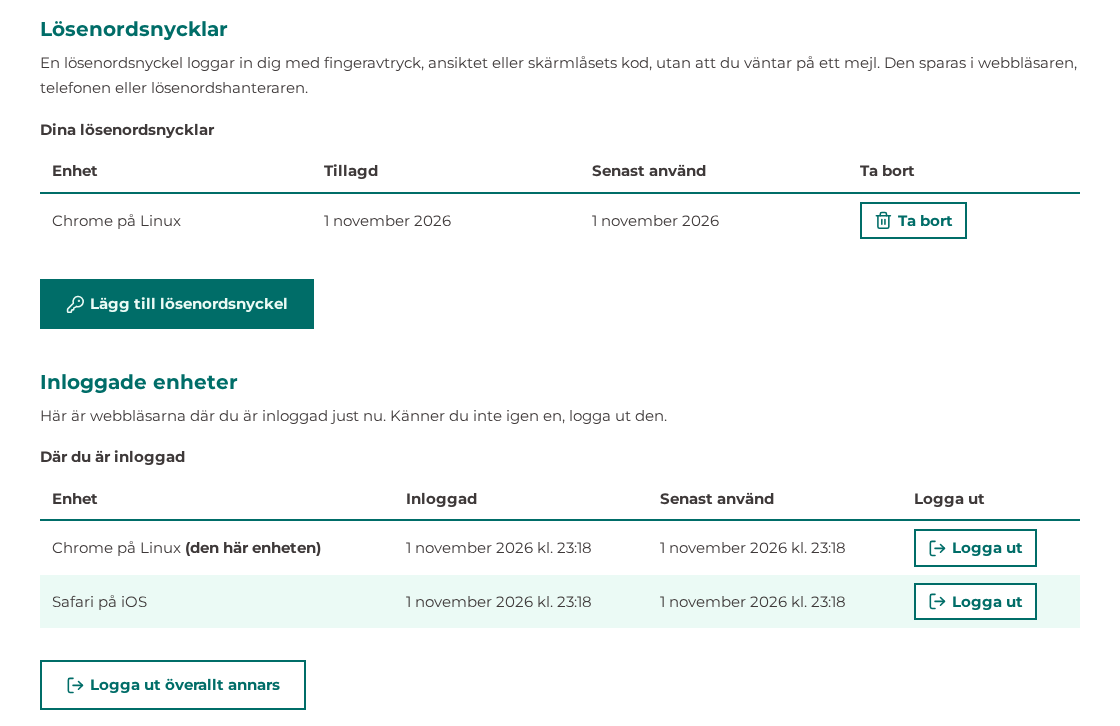
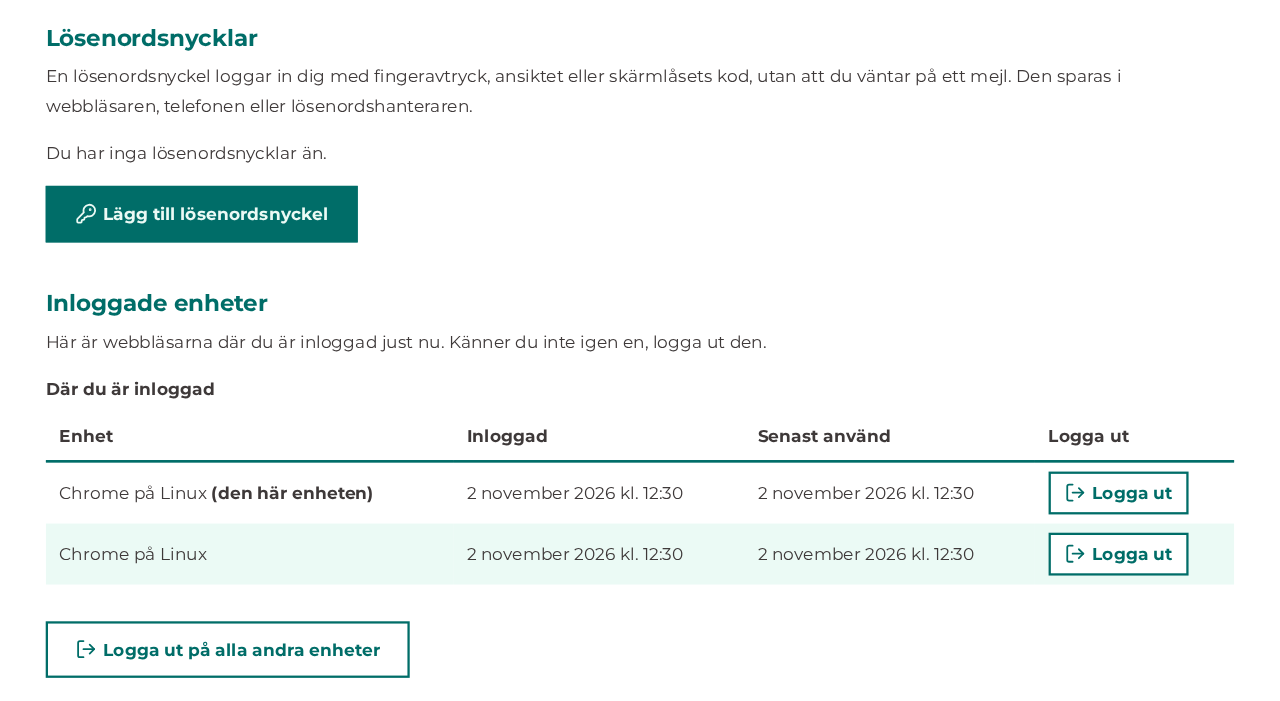
Keep the administrator guide current and its trial open

diff --git a/docs/administrator-guide.md b/docs/administrator-guide.md
@@ -42,7 +42,7 @@ Efter en inloggning med länk frågar sidan om du vill lägga till en lösenords
 
 ### Logga ut andra enheter
 
-Under **Inloggade enheter** på översikten står varje webbläsare där du är inloggad. Känner du inte igen en, tryck **Logga ut** på dess rad. **Logga ut överallt annars** loggar ut alla utom den du sitter vid.
+Under **Inloggade enheter** på översikten står varje webbläsare där du är inloggad. Känner du inte igen en, tryck **Logga ut** på dess rad. **Logga ut på alla andra enheter** loggar ut alla utom den du sitter vid.
 
 ![Lösenordsnycklar och inloggade enheter på översikten](administrator-guide/enheter.png)
 
@@ -205,7 +205,7 @@ Ett utskick är ett mejl till medlemmarna med din egen text och evenemang och ny
 
 Under **Tidigare utskick** på sidan Utskick står alla utskick, det senaste först, med status och hur många som har öppnat dem.
 
-### Mottagargrupper
+### Målgrupper och segment
 
 **Alla medlemmar med konto** finns alltid. Andra grupper, till exempel de som har betalat i år, volontärerna eller de anmälda till ett erbjudande, gör du som segment i Brevo. Varje medlem med konto finns där med tre egenskaper:
 
@@ -235,6 +235,8 @@ Skriv vad du gjorde, vad du väntade dig och vad som hände i stället, och ta g
 ## Verifiering
 
 En agent följde varje steg ovan den 1 november 2026 på den lokala utvecklingsmiljön, inloggad som den påhittade administratören Ada Admin, med ett skript som också tog bilderna. Skriptet kontrollerade att varje sida svarade som guiden säger, och från en påhittad medlems inloggning att medlemmarna ser det som guiden säger att de ser. Lösenordsnyckeln prövades med Chromiums låtsade autentiserare, inte med ett fingeravtryck eller en telefon.
+
+Knappen för att logga ut andra enheter heter "Logga ut på alla andra enheter" sedan #187. Guidens text och bilden av enheterna uppdaterades den 2 november 2026 på den lokala testmiljön med två webbläsare inloggade som den påhittade administratören Gunnar Wik.
 
 Inte prövat:
 

diff --git a/TODO.md b/TODO.md
@@ -1,0 +1,3 @@
+# Open work
+
+- [ ] Complete the timed trial in [issue #115](https://github.com/AlexanderReaper7/teaterihuskvarna/issues/115). Someone who did not write [the administrator guide](docs/administrator-guide.md) follows it to mark a fee paid, export the register and prepare a mailing, without help. Record the times and any corrections in the pull request before closing the issue.
